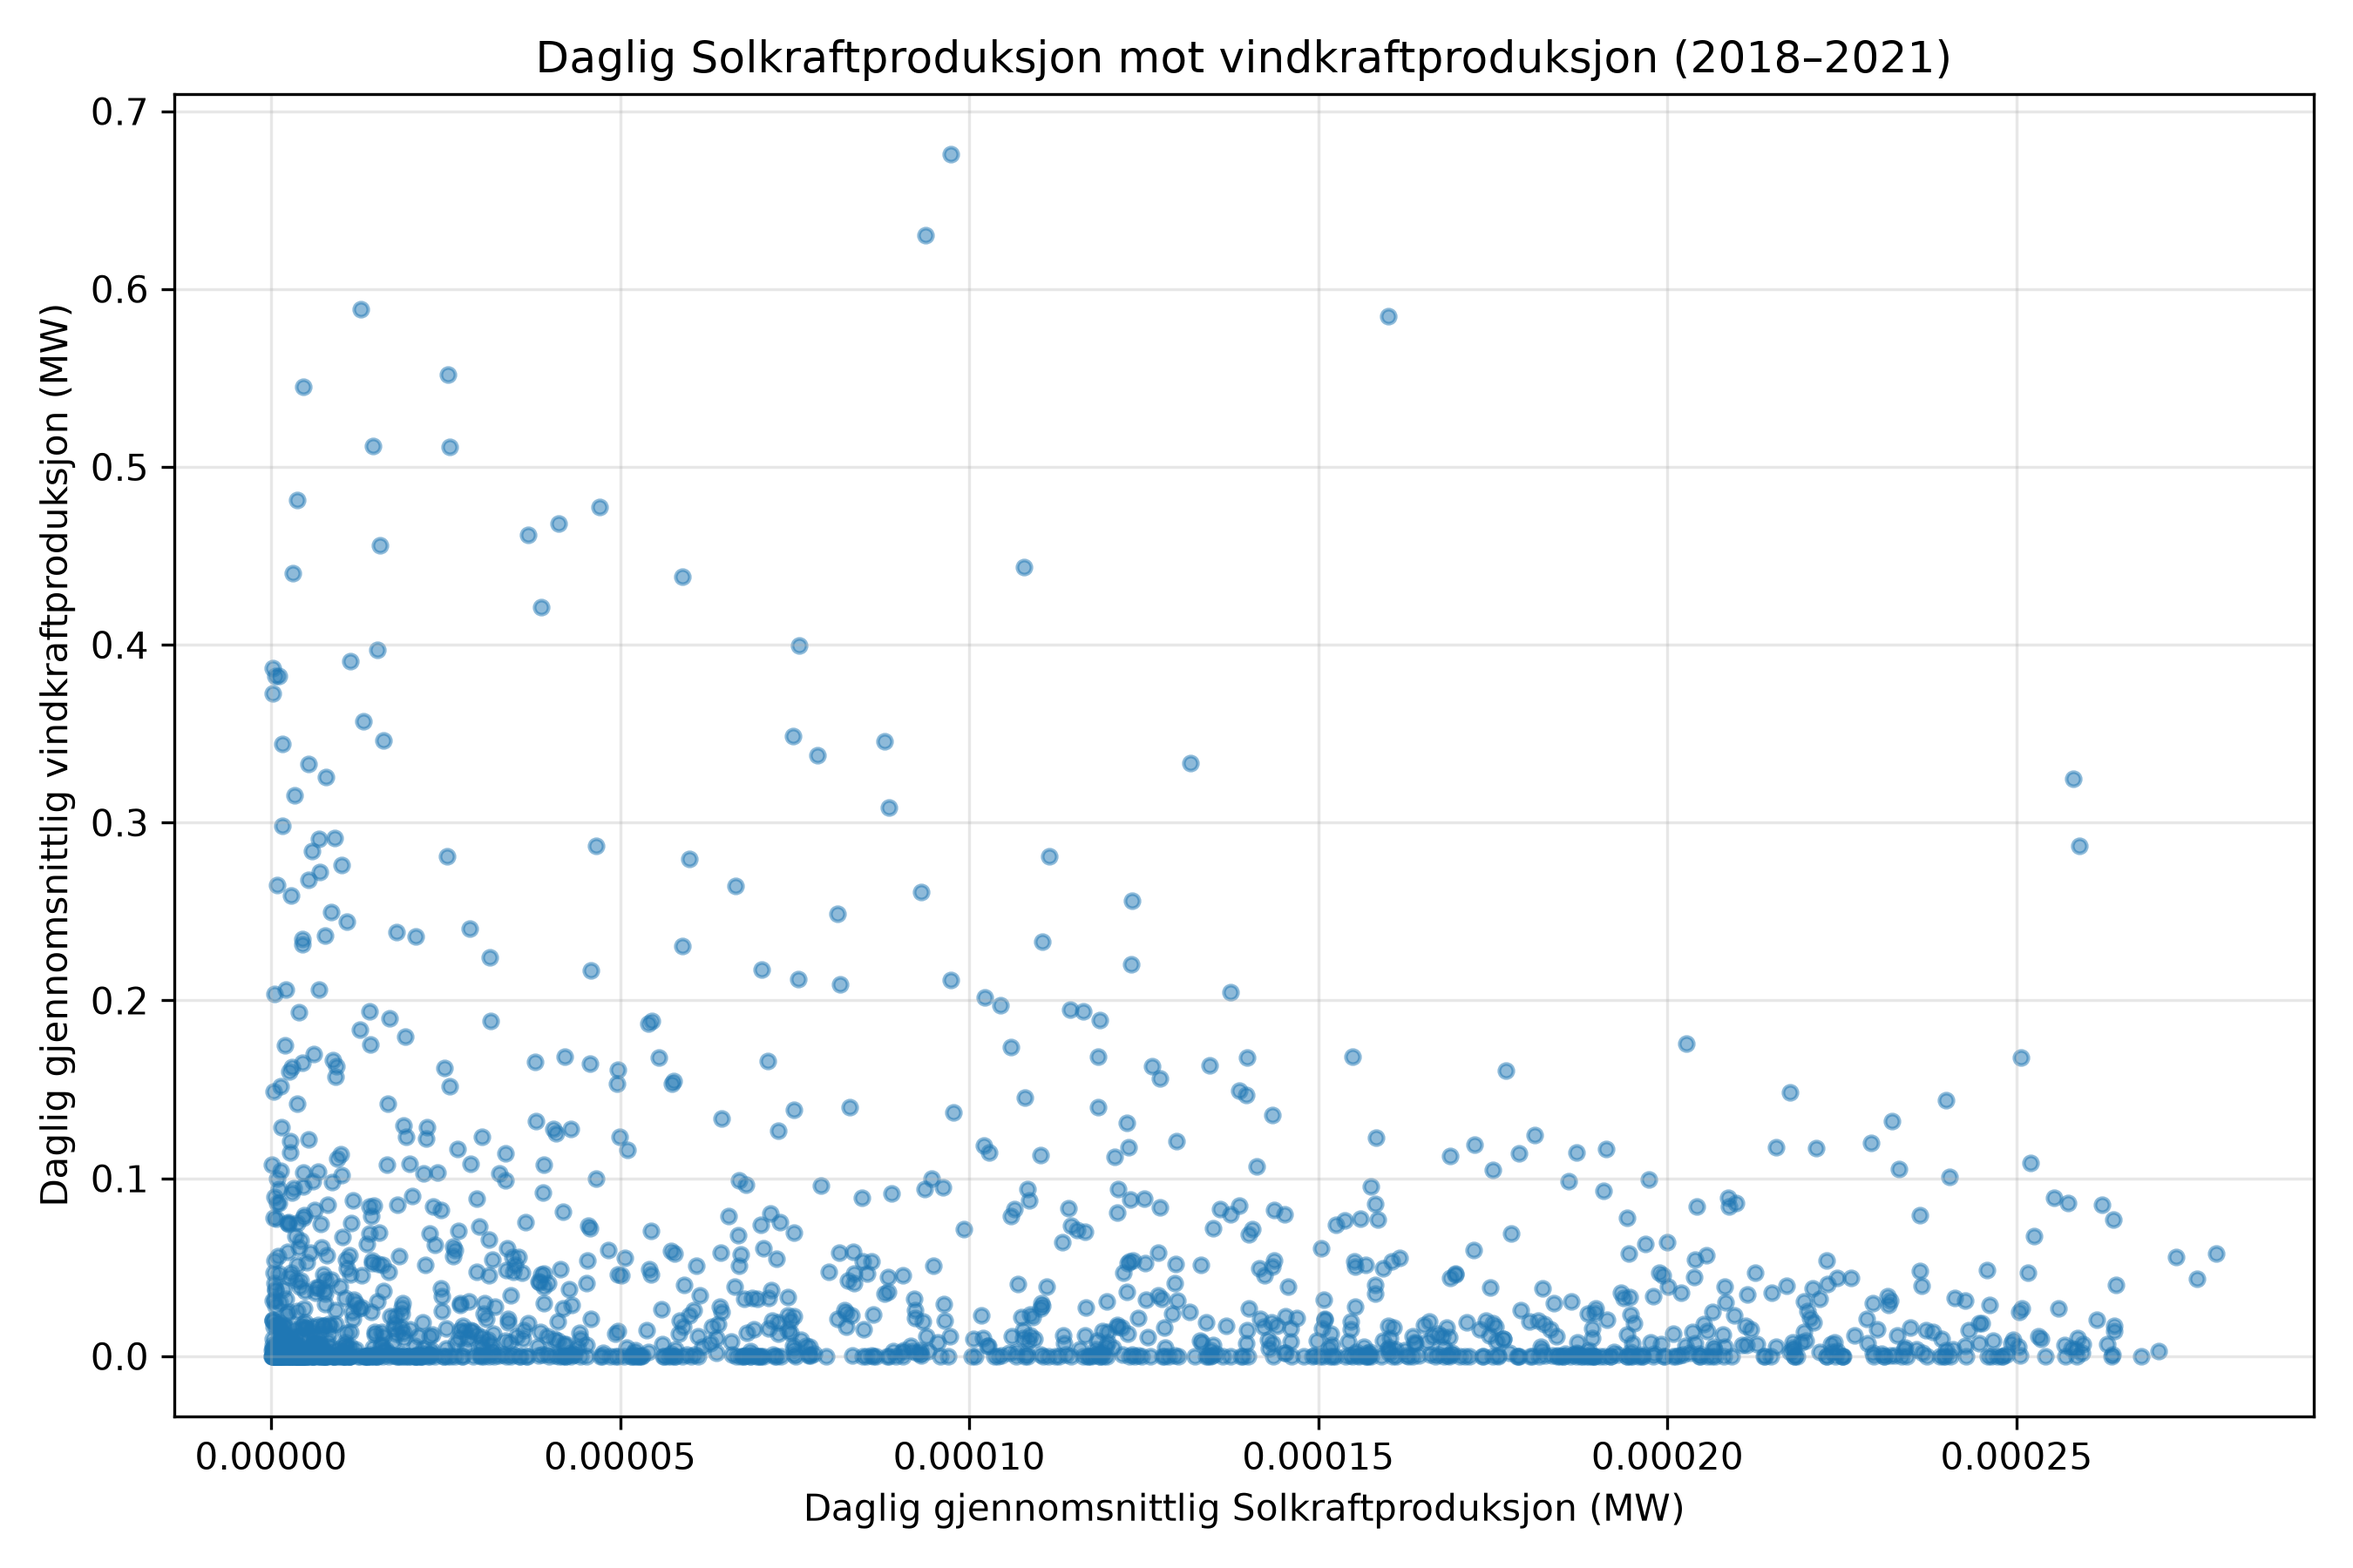
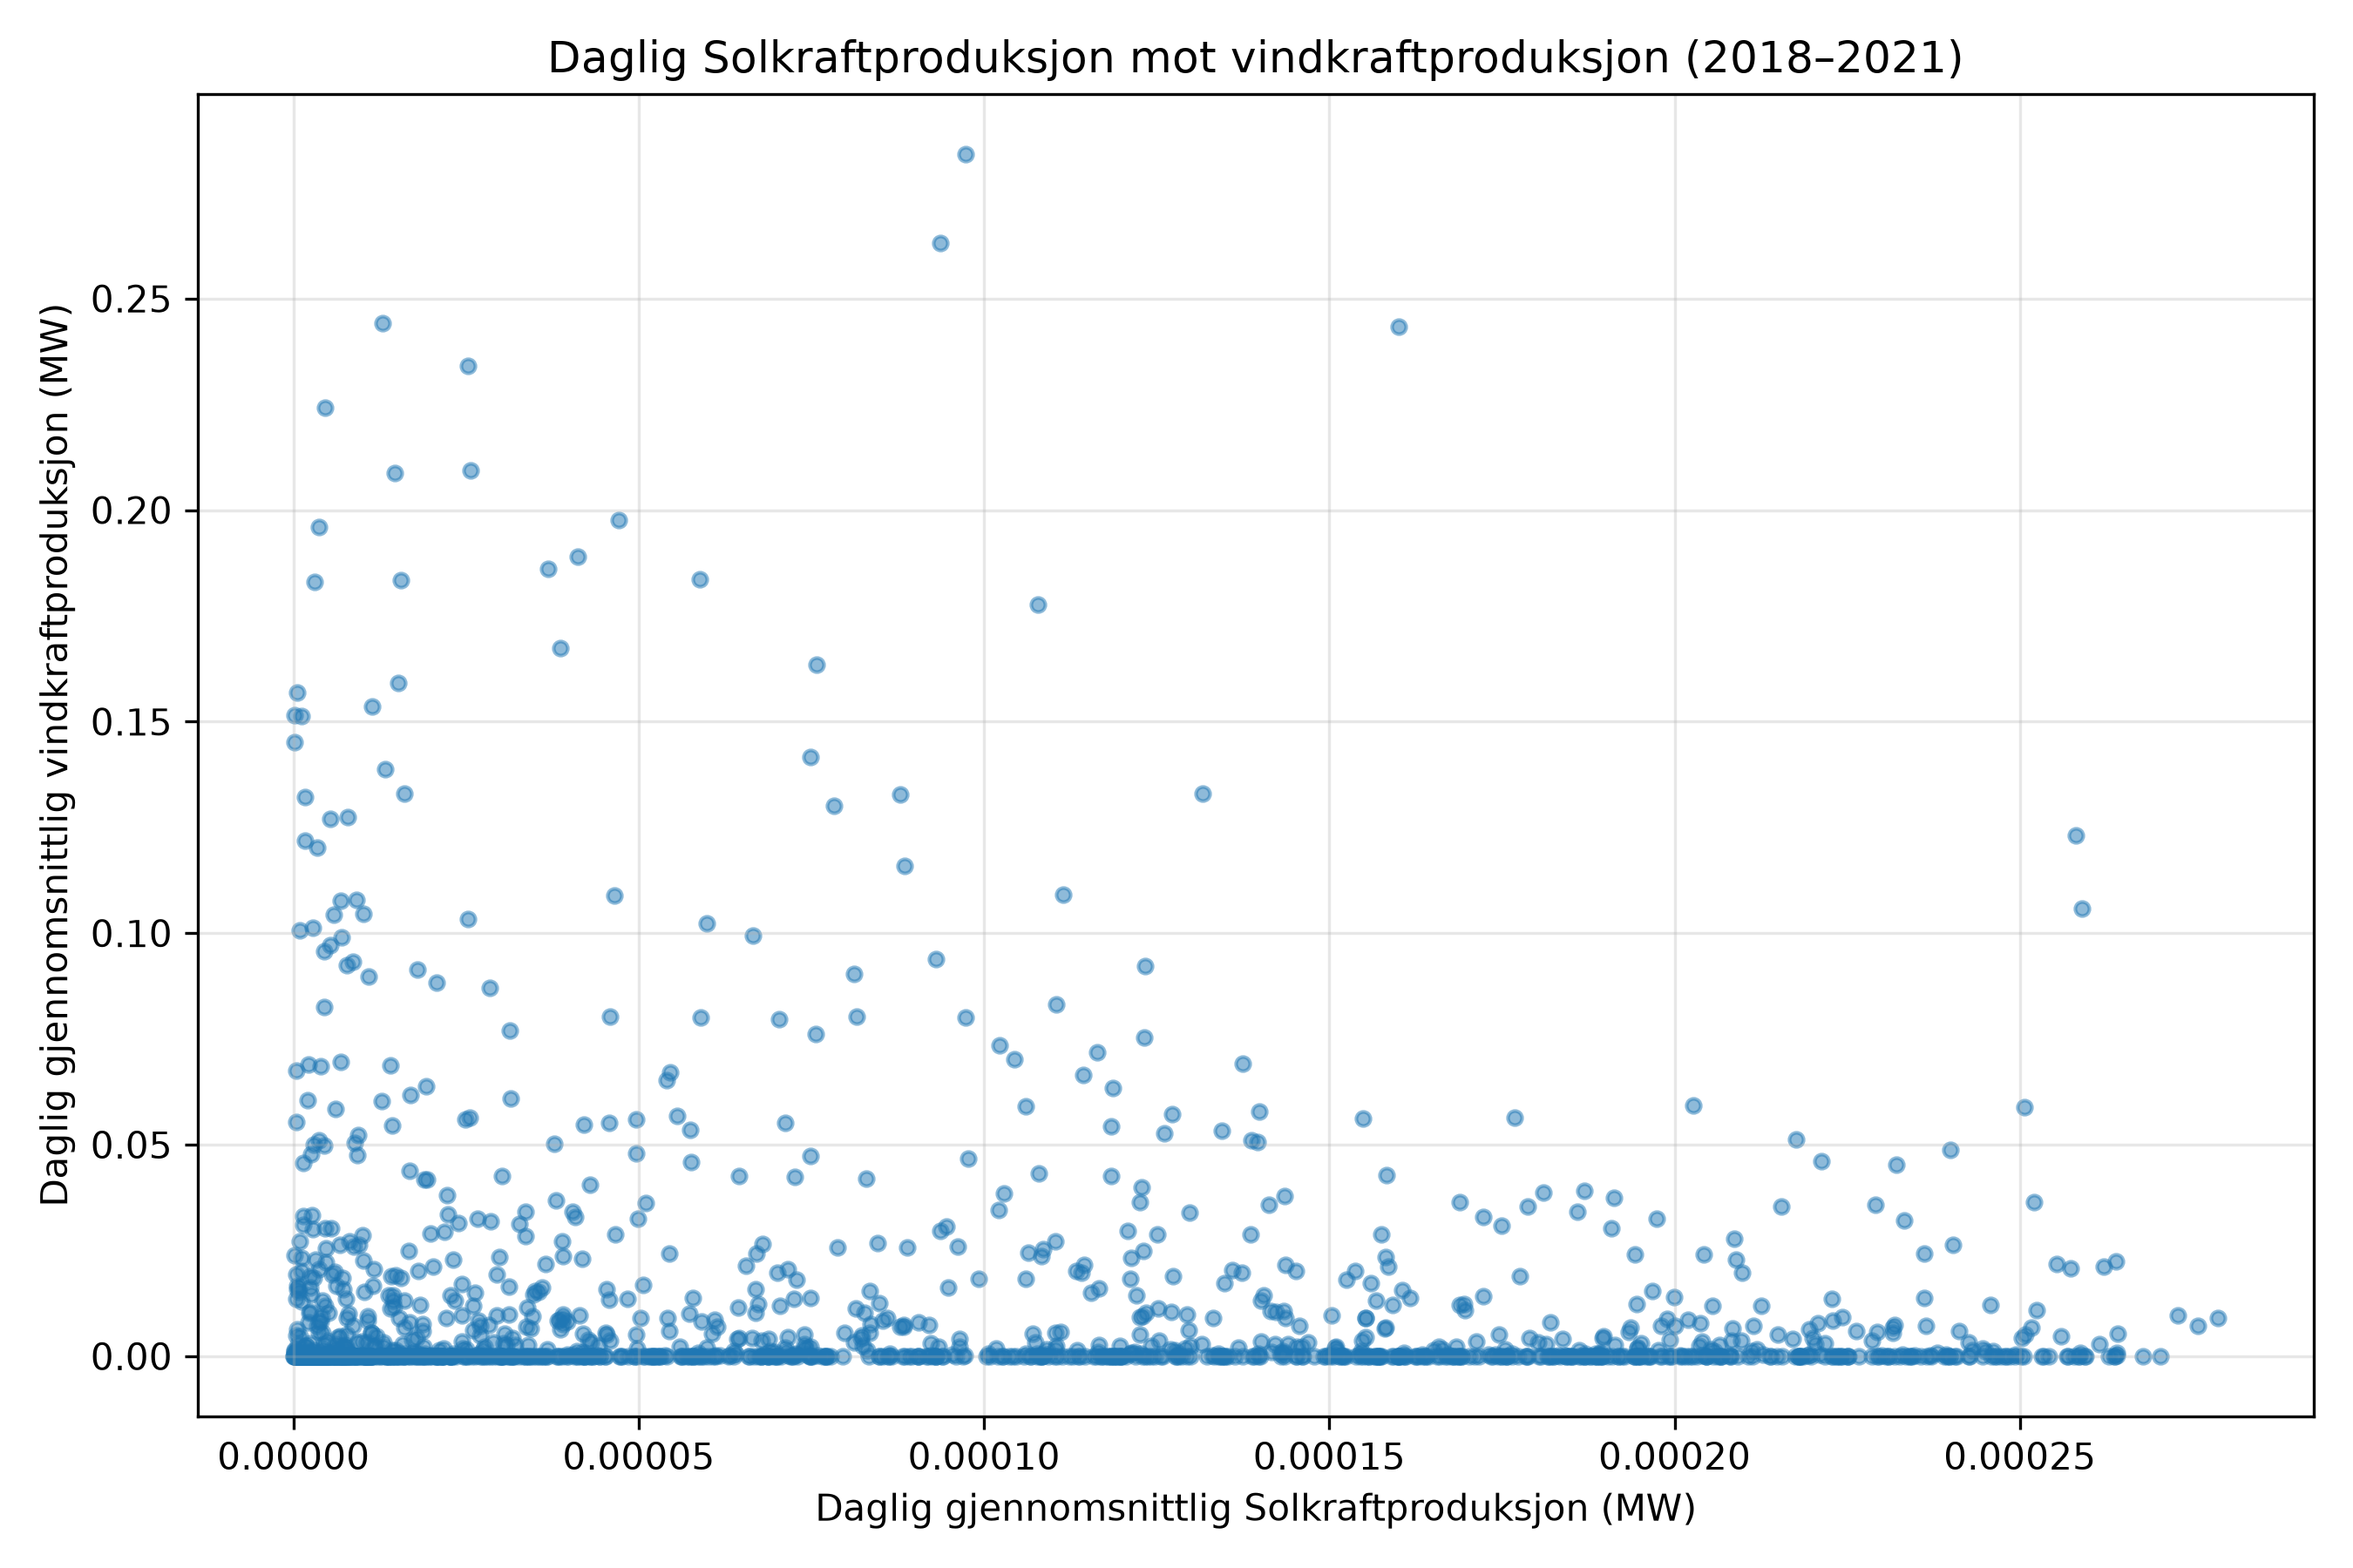
standardavvik

diff --git a/Prosjekt-ELK330/AnalyserPVGIS.py b/Prosjekt-ELK330/AnalyserPVGIS.py
@@ -166,6 +166,13 @@ korrelasjon_vinter = vinter["Solkraftproduksjon"].corr(vinter["Vindkraft"])
 print(f"Sommer 2020: r = {korrelasjon_sommer:.3f} ({len(sommer)} dager)")
 print(f"Vinter 2020/2021: r = {korrelasjon_vinter:.3f} ({len(vinter)} dager)")
 
+# standardavvik for sommer og vinter
+standardavvik_sommer = sommer[["Solkraftproduksjon", "Vindkraft"]].std()
+standardavvik_vinter = vinter[["Solkraftproduksjon", "Vindkraft"]].std()
+
+print(f"Sommer 2020: Standardavvik = {standardavvik_sommer}")
+print(f"Vinter 2020/2021: Standardavvik = {standardavvik_vinter}")
+
 fig, (ax_sommer, ax_vinter) = plt.subplots(
     1, 2, figsize=(12, 5), sharex=True, sharey=True
 )
